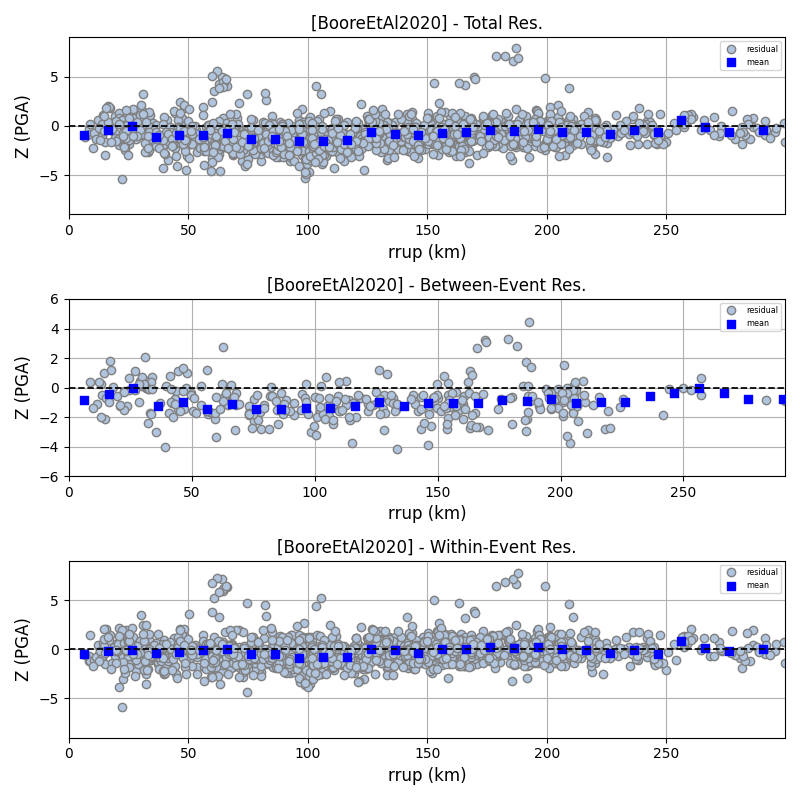
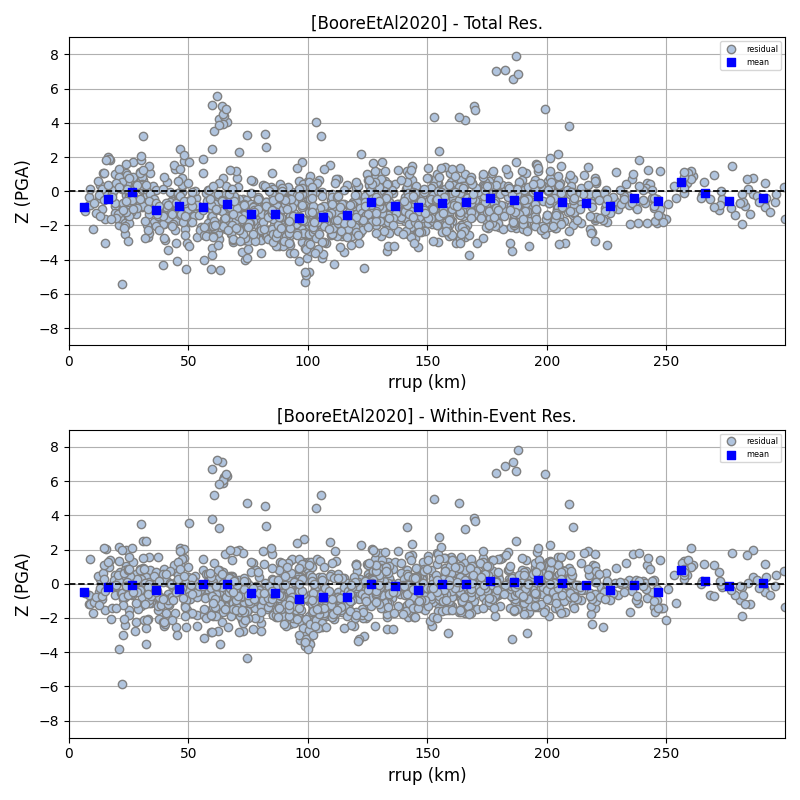
fix scatter plots

diff --git a/openquake/smt/residuals/residual_plotter_utils.py b/openquake/smt/residuals/residual_plotter_utils.py
@@ -120,40 +120,32 @@ def _get_depths(residuals, gmpe, imt, res_type):
     return depths
 
 
-def _get_vs30(residuals, gmpe, imt, res_type):
+def _get_vs30(residuals, imt):
     """
-    Return required vs30 values.
+    Return required vs30 values. Vs30 is a site property varying per station,
+    so it is only meaningful for total and intra-event residuals - one vs30
+    per retained record.
     """
     vs30 = np.array([])
-    for i, ctx in enumerate(residuals.contexts):
+    for ctx in residuals.contexts:
         keep = ctx["Retained"][imt]
-        if res_type == "Inter event":
-            vs30 = np.hstack([vs30, ctx["Ctx"].vs30[
-                residuals.unique_indices[gmpe][imt][i]]])
-        else:
-            vs30_vals = ctx["Ctx"].vs30[keep]
-            vs30 = np.hstack([vs30, vs30_vals])
-        
+        vs30 = np.hstack([vs30, ctx["Ctx"].vs30[keep]])
+
     return vs30
 
 
-def _get_distances(residuals, gmpe, imt, res_type, distance_type):
+def _get_distances(residuals, imt, distance_type):
     """
-    Return required distances.
+    Return required distances. Inter-event residuals are not plotted against
+    distance (tau has no distance dependence), so this is only used for total
+    and intra-event residuals - one distance per retained record.
     """
     distances = np.array([])
-    for i, ctx in enumerate(residuals.contexts):
+    for ctx in residuals.contexts:
         keep = ctx["Retained"][imt]
-        # Get the distances
-        if res_type == "Inter event":
-            dists = getattr(ctx["Ctx"], distance_type)[
-                residuals.unique_indices[gmpe][imt][i]]
-            distances = np.hstack([distances, dists])
-        else:
-            dist_vals = getattr(ctx["Ctx"], distance_type)
-            dist_vals = dist_vals[keep]
-            distances = np.hstack([distances, dist_vals])
-            
+        dist_vals = getattr(ctx["Ctx"], distance_type)[keep]
+        distances = np.hstack([distances, dist_vals])
+
     return distances
 
 
@@ -167,10 +159,14 @@ def get_scatter_vals(var, residuals, gmpe, imt, res_type, distance_type):
     elif var == "depth":
         return _get_depths(residuals, gmpe, imt, res_type)
     elif var == "vs30":
-        return _get_vs30(residuals, gmpe, imt, res_type)
+        assert res_type != "Inter event", (
+            "Inter-event residuals are not plotted against vs30")
+        return _get_vs30(residuals, imt)
     else:
         assert var == "distance"
-        return _get_distances(residuals, gmpe, imt, res_type, distance_type)
+        assert res_type != "Inter event", (
+            "Inter-event residuals are not plotted against distance")
+        return _get_distances(residuals, imt, distance_type)
 
 
 def get_scatter_data(residuals, gmpe, imt, var, distance_type=None):
@@ -184,8 +180,12 @@ def get_scatter_data(residuals, gmpe, imt, var, distance_type=None):
     
     data = residuals.residuals[gmpe][imt]
     for res_type in data.keys():
-    
+
         if res_type in ["vals"]:
+            continue
+        # Inter-event residual (tau) is a per-event quantity, so it has no
+        # dependence on per-record explanatory variables (distance, vs30).
+        if var in ("distance", "vs30") and res_type == "Inter event":
             continue
 
         x = get_scatter_vals(var, residuals, gmpe, imt, res_type, distance_type)

diff --git a/openquake/smt/residuals/residual_plotter.py b/openquake/smt/residuals/residual_plotter.py
@@ -419,6 +419,13 @@ class ResidualWithDistance(ResidualScatterPlot):
                                        self.imt,
                                        self.distance_type)
 
+    def get_subplots_rowcols(self):
+        # Inter-event residual is not plotted against distance, so drop the
+        # third panel when the GMPE has inter/intra decomposition
+        if self.num_plots > 1:
+            return 2, 1
+        return 1, 1
+
     def get_axis_xlim(self, res_data, res_type):
         x = res_data['x']
         if self.plot_type == "log":
@@ -455,6 +462,13 @@ class ResidualWithVs30(ResidualScatterPlot):
     """
     def get_plot_data(self):
         return residuals_with_vs30(self.residuals, self.gmpe, self.imt)
+
+    def get_subplots_rowcols(self):
+        # Inter-event residual is not plotted against vs30, so drop the third
+        # panel when the GMPE has inter/intra decomposition
+        if self.num_plots > 1:
+            return 2, 1
+        return 1, 1
 
     def get_axis_xlim(self, res_data, res_type):
         x = res_data['x']

diff --git a/docsrc/contents/smt.rst b/docsrc/contents/smt.rst
@@ -213,6 +213,13 @@ Plot of residual distributions versus spectral acceleration:
     Residuals w.r.t. rrup for Boore et al. 2020 and PGA:
         .. image:: /contents/smt_images/residual_wrt_dist_PGA.png
   
+    .. code-block:: ini
+       
+       > # Plot each component of residuals w.r.t. magnitude
+       > rspl.ResidualWithMagnitude(resid, gmpe, imt, fname)
+
+    Residuals w.r.t. magnitude for Boore et al. 2020 and PGA:
+        .. image:: /contents/smt_images/residual_wrt_mag_PGA.png
 
 GMPE Performance Ranking Metrics
 ********************************
